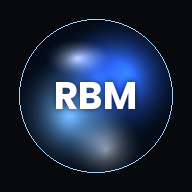
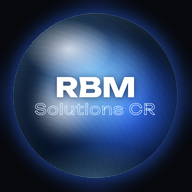
Íconos de la app con la bola RBM Solutions CR en alta calidad
Claude-Session: https://claude.ai/code/session_01Ge9bd87iqp5FfYkfbv97Wk

diff --git a/sw.js b/sw.js
@@ -1,7 +1,7 @@
 // RBM Solutions: permite instalar la página como app y que abra rápido.
 // Cuando subás una versión nueva de la página, cambiá el número de VERSION.
-const VERSION = "rbm-v6";
-const ARCHIVOS = ["./", "./index.html", "./manifest.json", "./icon-192.png", "./icon-512.png"];
+const VERSION = "rbm-v7";
+const ARCHIVOS = ["./", "./index.html", "./manifest.json", "./icon-192.png", "./icon-512.png", "./icon-maskable-512.png", "./apple-touch-icon.png"];
 
 self.addEventListener("install", e => {
   e.waitUntil(caches.open(VERSION).then(c => c.addAll(ARCHIVOS)).then(() => self.skipWaiting()));

diff --git a/index.html b/index.html
@@ -5,7 +5,7 @@
 <meta name="theme-color" content="#07090d">
 <link rel="manifest" href="manifest.json">
 <link rel="icon" href="icon-192.png">
-<link rel="apple-touch-icon" href="icon-192.png">
+<link rel="apple-touch-icon" href="apple-touch-icon.png">
 <meta name="apple-mobile-web-app-capable" content="yes">
 <meta name="mobile-web-app-capable" content="yes">
 <meta name="apple-mobile-web-app-title" content="RBM Solutions">
